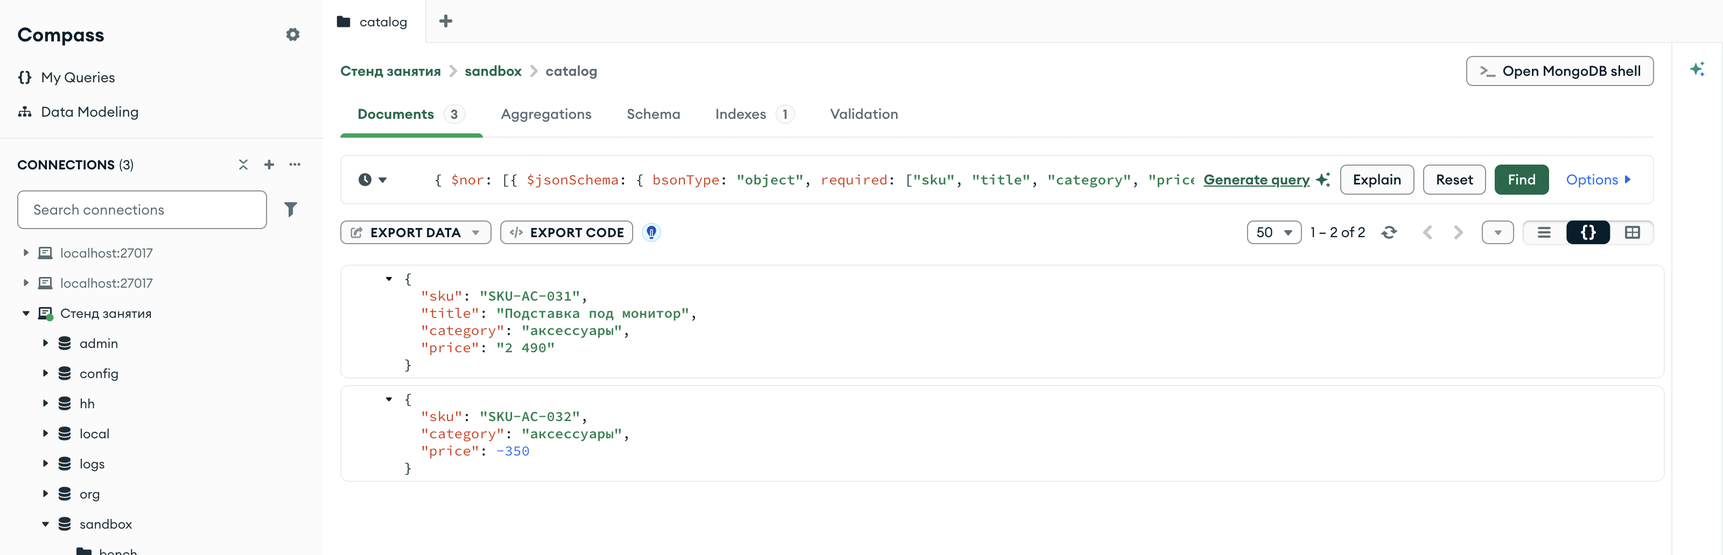
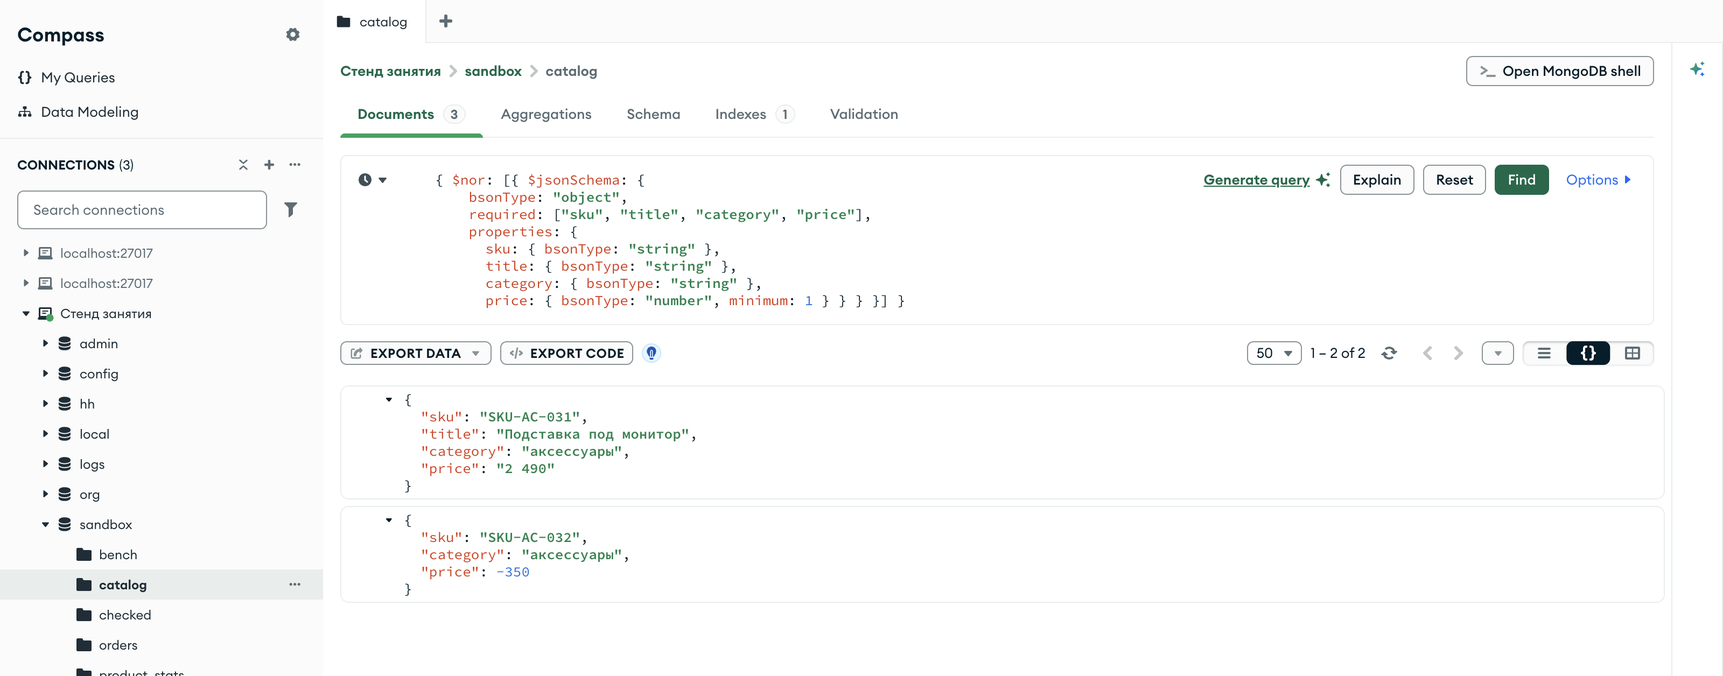
Глава 3.1: порядок ввода правила, схемы правила и пути записи, таблица strict/moderate, разбор errInfo по шагам, запуск mongosh, самостоятельная работа; кадр 109 с правилом целиком

diff --git a/temy/19-jsonschema/index.html b/temy/19-jsonschema/index.html
@@ -23,6 +23,15 @@
       document.documentElement.dataset.os = os;
     })();
   </script>
+  <style>
+    .steps { counter-reset: step; margin: 18px 0; padding: 0; list-style: none; }
+    .steps > li { position: relative; margin: 0 0 12px; padding: 12px 16px 12px 52px; border: 2px solid var(--ink); background: var(--page); }
+    .steps > li::before { counter-increment: step; content: counter(step); position: absolute; left: 12px; top: 11px; width: 26px; height: 26px; display: grid; place-items: center; background: var(--ink); color: var(--leaf-bright); font: 700 13px/1 var(--mono); }
+    .steps > li > b:first-child { display: block; margin-bottom: 3px; }
+    .doc__body .ok { color: var(--leaf); }
+    .doc__body .bad { color: var(--clay); font-weight: 600; }
+    .sieve > span.drop.is-shown { opacity: 1; transform: none; border-color: var(--clay); box-shadow: 4px 4px 0 var(--clay); }
+  </style>
 </head>
 <body>
   <div class="book">
@@ -67,10 +76,12 @@
             <li><a href="#s5">Ключевые слова правила</a></li>
             <li><a href="#s6">Правило для коллекции с данными: <code>collMod</code></a></li>
             <li><a href="#s7"><code>validationAction</code>: предупреждение вместо отказа</a></li>
-            <li><a href="#s8">Правило в Compass</a></li>
-            <li><a href="#s9">Частые ошибки</a></li>
-            <li><a href="#s10">Проверьте себя</a></li>
-            <li><a href="#s11">Шпаргалка</a></li>
+            <li><a href="#s8">Порядок ввода правила на рабочей коллекции</a></li>
+            <li><a href="#s9">Правило в Compass</a></li>
+            <li><a href="#s10">Частые ошибки</a></li>
+            <li><a href="#s11">Проверьте себя</a></li>
+            <li><a href="#s12">Самостоятельная работа</a></li>
+            <li><a href="#s13">Шпаргалка</a></li>
           </ol>
         </nav>
 
@@ -259,6 +270,29 @@ schema = {
           <li><code>required</code> — массив имён обязательных полей. Документ, в котором нет хотя бы одного из них, правилу не соответствует.</li>
           <li><code>properties</code> — правила для отдельных полей. Ключ — имя поля, значение — правило для значения этого поля. <code>{"bsonType": "string"}</code> требует строку. Имена типов те же, что у оператора <code>$type</code> (глава 2.5, §4): для цены указан <code>"number"</code>, он принимает любой числовой тип — <code>int</code>, <code>long</code>, <code>double</code> и <code>decimal</code>. Ключ <code>"minimum": 1</code> требует число не меньше единицы.</li>
         </ul>
+        <p>Как сервер прикладывает правило к документу, видно на товаре без названия из §1. Слева — правило, справа — документ; у каждого поля документа отмечено, какое условие правила к нему относится и выполнено ли оно.</p>
+        <div class="duo">
+          <div class="doc">
+            <div class="doc__bar"><span>Правило</span><span>schema</span></div>
+            <div class="doc__body">
+              <div><span class="fld">required</span>: sku, title, category, price</div>
+              <div><span class="fld">sku</span>: строка</div>
+              <div><span class="fld">title</span>: строка</div>
+              <div><span class="fld">category</span>: строка</div>
+              <div><span class="fld">price</span>: число, не меньше 1</div>
+            </div>
+          </div>
+          <div class="doc">
+            <div class="doc__bar"><span>Документ</span><span>SKU-AC-032</span></div>
+            <div class="doc__body">
+              <div><span class="fld">sku</span>: "SKU-AC-032" <span class="ok">строка — выполнено</span></div>
+              <div><span class="fld">category</span>: "аксессуары" <span class="ok">строка — выполнено</span></div>
+              <div><span class="fld">price</span>: -350 <span class="bad">меньше 1 — minimum</span></div>
+              <div><span class="fld">title</span>: <span class="bad">поля нет — required</span></div>
+            </div>
+          </div>
+        </div>
+        <p>Документ нарушает два условия: цена меньше единицы, и нет обязательного поля <code>title</code>. Достаточно одного нарушения, чтобы документ правилу не соответствовал.</p>
         <p>Правило из <code>properties</code> проверяется, только если поле в документе есть. Документ без цены не нарушает <code>{"bsonType": "number", "minimum": 1}</code>; его отклонит <code>required</code>. Поэтому обязательные поля перечисляют в <code>required</code>, а их типы и границы — в <code>properties</code>.</p>
         <p><code>$jsonSchema</code> — оператор запроса, как <code>$exists</code> и <code>$type</code>. Его ставят в фильтр <code>find</code> или <code>count_documents</code>, и документ попадает в результат, если соответствует правилу. Так проверяют данные, которые уже лежат в коллекции. Пример считает товары, которые соответствуют правилу, в <code>shop.products</code> и в <code>catalog</code> из §1, а затем выводит документы <code>catalog</code>, которые правилу не соответствуют: их отбирает <code>$nor</code> с одним условием (глава 2.4).</p>
         <div class="duo">
@@ -340,10 +374,19 @@ sandbox.catalog, подходят: 1
           <img src="../../shots/109-sandbox-catalog-nor.png" alt="Compass, коллекция sandbox.catalog: фильтр $nor с $jsonSchema, счётчик 1 – 2 of 2, подставка и товар без названия">
           <figcaption>Compass · <code>sandbox.catalog</code>, фильтр <code>{ $nor: [{ $jsonSchema: { … } }] }</code> с правилом товара</figcaption>
         </figure>
-        <p>Правило в поле фильтра записано так же, как в коде, одной строкой; Compass показывает её начало. Счётчик <code>1 – 2 of 2</code>: в выдаче подставка с ценой-строкой и товар без названия, чехол в неё не попал.</p>
+        <p>Правило в поле фильтра записано так же, как в коде, по строкам: Compass растягивает поле по высоте, и правило видно целиком. Счётчик <code>1 – 2 of 2</code>: в выдаче подставка с ценой-строкой и товар без названия, чехол в неё не попал.</p>
 
         <h2 id="s3"><span class="sec">§3</span>Коллекция с правилом: <code>validator</code></h2>
         <p>Правило, которое сервер проверяет при каждой записи в коллекцию, называется <span class="term">валидатором</span> (<code>validator</code>). Оно хранится в настройках коллекции. При вставке и при обновлении сервер проверяет документ в том виде, в каком он будет записан, и отклоняет запись, если документ правилу не соответствует. Это похоже на контроль на проходной: документ, который не прошёл проверку, в коллекцию не попадает.</p>
+        <div class="pipeline">
+          <div class="pipeline__stage"><b>insert_one, update_one</b><span>программа или Compass отправляет запись</span><em>1 · запись</em></div>
+          <div class="pipeline__stage"><b>validator</b><span>сервер сверяет документ с правилом коллекции</span><em>2 · проверка</em></div>
+          <div class="pipeline__stage is-lit"><b>результат</b><span>документ записан или отклонён</span><em>3 · ответ</em></div>
+        </div>
+        <div class="sieve">
+          <span class="pass"><b>соответствует</b>документ записан, программа получает обычный ответ</span>
+          <span class="drop is-shown"><b>не соответствует</b>запись отклонена: ошибка 121, причины в errInfo, коллекция не изменилась</span>
+        </div>
         <p>В модуле 1 коллекции появлялись сами при первой вставке. Коллекцию с валидатором создают явно, передавая правило в параметрах создания:</p>
         <p data-lang="python">Метод базы <code>create_collection(имя, validator=...)</code> создаёт коллекцию и возвращает объект коллекции. Значение <code>validator</code> — документ условия; правило <code>$jsonSchema</code> стоит в нём как оператор запроса, так же как в фильтре §2.</p>
         <p data-lang="ruby">Запись <code>sandbox[:checked, validator: ...]</code> создаёт объект коллекции с параметрами, но на сервер ничего не отправляет; коллекцию создаёт вызов <code>create</code>. Значение <code>validator</code> — документ условия; правило <code>$jsonSchema</code> стоит в нём как оператор запроса, так же как в фильтре §2.</p>
@@ -484,6 +527,52 @@ checked.<span class="f">insert_one</span>({ <span class="s">"sku"</span> =&gt; <
           <li>элемент с <code>"operatorName": "required"</code> перечисляет недостающие поля в массиве <code>missingProperties</code>;</li>
           <li>элемент с <code>"operatorName": "properties"</code> перечисляет поля с ошибками в массиве <code>propertiesNotSatisfied</code>. Для каждого поля указаны имя (<code>propertyName</code>) и список <code>details</code>: какое ключевое слово не выполнено (<code>operatorName</code>) и причина (<code>reason</code>).</li>
         </ul>
+        <p>Так выглядит <code>errInfo</code> для подставки из §1 — документа без названия и с ценой строкой. Ответ получен на стенде и напечатан в mongosh; <code>failingDocumentId</code> у каждого запуска свой.</p>
+        <figure class="code" data-run="no">
+          <figcaption><span>mongosh · ответ сервера</span><span>поле errInfo</span></figcaption>
+<pre>{
+  failingDocumentId: ObjectId('6ac4b24260c9c86df89ab767'),
+  details: {
+    operatorName: '$jsonSchema',
+    schemaRulesNotSatisfied: [
+      {
+        operatorName: 'properties',
+        propertiesNotSatisfied: [
+          {
+            propertyName: 'price',
+            details: [
+              {
+                operatorName: 'bsonType',
+                specifiedAs: {
+                  bsonType: 'number'
+                },
+                reason: 'type did not match',
+                consideredValue: '2 490',
+                consideredType: 'string'
+              }
+            ]
+          }
+        ]
+      },
+      {
+        operatorName: 'required',
+        specifiedAs: {
+          required: [
+            'sku',
+            'title',
+            'category',
+            'price'
+          ]
+        },
+        missingProperties: [
+          'title'
+        ]
+      }
+    ]
+  }
+}</pre>
+        </figure>
+        <p>Два элемента списка <code>schemaRulesNotSatisfied</code> соответствуют двум нарушениям. Элемент <code>properties</code>: поле <code>price</code>, условие <code>bsonType</code>, в документе строка <code>'2 490'</code> (<code>consideredType: 'string'</code>). Элемент <code>required</code>: нет поля <code>title</code>. Пример ниже проходит по этому списку и печатает имена полей и условий; остальные поля ответа ему не нужны.</p>
         <p>Пример пробует записать в коллекцию <code>checked</code> из §3 подставку из §1 — без названия и с ценой строкой — и печатает причины отказа.</p>
         <div class="duo">
           <figure class="code" data-lang="python">
@@ -626,10 +715,35 @@ _, err := checked.<span class="f">InsertOne</span>(ctx, bson.D{
   нет обязательных полей: ["title"]</pre>
         </figure>
         <p>Нарушены два условия. У поля <code>price</code> не выполнено ключевое слово <code>bsonType</code>, причина <code>type did not match</code> — тип значения не совпал с указанным в правиле. И в документе нет обязательного поля <code>title</code>. Сервер сообщил обе причины сразу и не остановился на первом нарушении.</p>
-        <p data-lang="python">В исключении <code>WriteError</code> поле <code>details</code> хранит описание ошибки записи целиком; <code>errInfo</code> — один из его ключей.</p>
-        <p data-lang="ruby">Метод <code>details</code> исключения возвращает содержимое <code>errInfo</code>, поэтому разбор начинается сразу с ключа <code>"details"</code>.</p>
-        <p data-lang="go">Поле <code>Details</code> ошибки записи хранит <code>errInfo</code> в виде <code>bson.Raw</code> — документа BSON без разбора. <code>bson.Unmarshal</code> раскладывает его в структуру: поля структуры связаны с именами в документе тегами <code>bson:"…"</code>, а поля, которых в структуре нет, пропускаются. Тип <code>schemaRule</code> объявлен над <code>main</code>.</p>
-        <p data-lang="cpp">Метод <code>raw_server_error()</code> исключения возвращает весь ответ сервера. Ошибки записи лежат в нём массивом <code>writeErrors</code>, и <code>errInfo</code> берётся из его первого элемента. Значения достаются по цепочке <code>[]</code>, массивы — через <code>get_array().value</code>, строки — через <code>get_string().value</code>.</p>
+        <p>Код примера проходит по <code>errInfo</code> в одном и том же порядке на всех языках.</p>
+        <ol class="steps" data-lang="python">
+          <li><b>Поймать отказ</b><code>except WriteError as e</code> перехватывает исключение, которое выбросил <code>insert_one</code>. Класс <code>WriteError</code> импортирован в начале примера из модуля <code>pymongo.errors</code>.</li>
+          <li><b>Дойти до списка нарушений</b><code>e.details</code> — словарь с описанием ошибки записи: <code>code</code>, <code>errmsg</code>, <code>errInfo</code>. Цепочка <code>e.details["errInfo"]["details"]["schemaRulesNotSatisfied"]</code> спускается по вложенным словарям и даёт список из двух элементов, как в ответе выше.</li>
+          <li><b>Узнать, какое условие не выполнено</b>Цикл <code>for rule in …</code> перебирает элементы списка; каждый элемент — словарь, и <code>rule["operatorName"]</code> — имя ключевого слова: <code>"properties"</code> или <code>"required"</code>.</li>
+          <li><b>Напечатать недостающие поля</b>Для <code>required</code> имена лежат в списке <code>rule["missingProperties"]</code>; <code>print</code> выводит его как список Python: <code>['title']</code>.</li>
+          <li><b>Напечатать поля с ошибками</b>Для <code>properties</code> работают два вложенных цикла: внешний — по полям из <code>rule["propertiesNotSatisfied"]</code>, внутренний — по нарушенным условиям поля из <code>prop["details"]</code>. Печатаются имя поля, имя условия и причина.</li>
+        </ol>
+        <ol class="steps" data-lang="ruby">
+          <li><b>Поймать отказ</b><code>rescue Mongo::Error::OperationFailure =&gt; e</code> перехватывает исключение, которое выбросил <code>insert_one</code>.</li>
+          <li><b>Дойти до списка нарушений</b>Метод <code>e.details</code> возвращает содержимое <code>errInfo</code>, поэтому цепочка начинается на уровень ниже, чем в ответе выше: <code>e.details["details"]["schemaRulesNotSatisfied"]</code>.</li>
+          <li><b>Узнать, какое условие не выполнено</b><code>.each do |rule|</code> перебирает элементы списка; <code>rule["operatorName"]</code> — имя ключевого слова: <code>"properties"</code> или <code>"required"</code>.</li>
+          <li><b>Напечатать недостающие поля</b>Для <code>required</code> имена лежат в массиве <code>rule["missingProperties"]</code>; подстановка <code>#{…}</code> выводит его как массив Ruby: <code>["title"]</code>.</li>
+          <li><b>Напечатать поля с ошибками</b>Для <code>properties</code> работают два вложенных <code>each</code>: по полям из <code>rule["propertiesNotSatisfied"]</code> и по нарушенным условиям поля из <code>prop["details"]</code>.</li>
+        </ol>
+        <ol class="steps" data-lang="go">
+          <li><b>Описать нужную часть ответа</b>Тип <code>schemaRule</code> над <code>main</code> повторяет форму элемента списка. Поля структуры связаны с именами в документе тегами <code>bson:"…"</code>; поля ответа, которых в структуре нет (<code>specifiedAs</code>, <code>consideredValue</code>), при разборе пропускаются.</li>
+          <li><b>Поймать отказ</b><code>errors.As(err, &amp;we)</code> проверяет, что <code>InsertOne</code> вернул ошибку типа <code>mongo.WriteException</code>, и записывает её в переменную <code>we</code>.</li>
+          <li><b>Разобрать errInfo</b><code>we.WriteErrors[0].Details</code> — <code>errInfo</code> первой ошибки записи в виде <code>bson.Raw</code>. <code>bson.Unmarshal</code> раскладывает его в переменную <code>info</code>: её анонимная структура повторяет путь <code>details → schemaRulesNotSatisfied</code>, и после разбора список лежит в <code>info.Details.Rules</code>.</li>
+          <li><b>Напечатать недостающие поля</b>Для <code>rule.OperatorName == "required"</code> имена лежат в срезе <code>rule.MissingProperties</code>; <code>fmt.Println</code> выводит его как <code>[title]</code>.</li>
+          <li><b>Напечатать поля с ошибками</b>Для <code>"properties"</code> работают два вложенных цикла <code>for … range</code>: по полям и по нарушенным условиям каждого поля.</li>
+        </ol>
+        <ol class="steps" data-lang="cpp">
+          <li><b>Поймать отказ</b><code>catch (const mongocxx::operation_exception&amp; e)</code> перехватывает исключение, которое выбросил <code>insert_one</code>.</li>
+          <li><b>Дойти до errInfo</b><code>e.raw_server_error()</code> возвращает весь ответ сервера. Ошибки записи лежат в нём массивом <code>writeErrors</code>, и цепочка <code>view()["writeErrors"][0]["errInfo"]</code> берёт <code>errInfo</code> первой ошибки.</li>
+          <li><b>Перебрать нарушения</b><code>info["details"]["schemaRulesNotSatisfied"].get_array().value</code> — массив, по которому идёт цикл. Элемент превращается в документ через <code>get_document().value</code>, а имя условия — в строку <code>std::string name{…}</code>, чтобы сравнить его с <code>"required"</code> и <code>"properties"</code>.</li>
+          <li><b>Напечатать недостающие поля</b>Для <code>required</code> цикл по <code>rule["missingProperties"]</code> печатает имена через пробел.</li>
+          <li><b>Напечатать поля с ошибками</b>Для <code>properties</code> работают два вложенных цикла: по полям и по нарушенным условиям каждого поля.</li>
+        </ol>
         <p>Строка «нет обязательных полей: title» называет поле, которое нужно добавить в документ. Такой разбор пишут в журнал приложения или возвращают пользователю, который заполнял форму.</p>
         <figure class="shot">
           <img src="../../shots/111-sandbox-checked-insert.png" alt="Compass, окно Insert Document для sandbox.checked: документ без title с ценой строкой, сообщение Document failed validation и кнопка View error details">
@@ -1103,6 +1217,20 @@ moderate: цена ноутбука 0 не записана, код ошибки
         </figure>
         <p>В коллекции 22 товара, и один из них правилу не соответствует: включение правила не удалило и не изменило сумку. При <code>strict</code> обновление сумки отклонено, хотя меняется поле <code>brand</code>, которого в правиле нет. Сервер проверяет документ целиком в том виде, каким он станет после обновления, а цена в нём по-прежнему строка.</p>
         <p>При <code>moderate</code> то же обновление прошло: сумка не соответствовала правилу и до него. Обновление ноутбука проверено и отклонено: ноутбук соответствовал правилу, а с ценой 0 перестал бы. Уровень <code>moderate</code> выбирают, когда правило вводят для коллекции со старыми данными: старые документы можно исправлять постепенно, а новые ошибки в коллекцию не попадают.</p>
+        <p>Что делает сервер при каждом уровне, сведено в таблицу. Строки с ноутбуком и сумкой — из примера, остальные проверены на стенде тем же способом.</p>
+        <div class="table-scroll">
+          <table>
+            <thead><tr><th>Запись</th><th>Документ до записи</th><th>Документ после записи</th><th><code>strict</code></th><th><code>moderate</code></th></tr></thead>
+            <tbody>
+              <tr><td>вставка</td><td>—</td><td>соответствует</td><td>записать</td><td>записать</td></tr>
+              <tr><td>вставка</td><td>—</td><td>не соответствует</td><td>отклонить</td><td>отклонить</td></tr>
+              <tr><td>обновление</td><td>соответствует</td><td>не соответствует (ноутбук с ценой 0)</td><td>отклонить</td><td>отклонить</td></tr>
+              <tr><td>обновление</td><td>не соответствует</td><td>не соответствует (сумка с новым <code>brand</code>)</td><td>отклонить</td><td>записать</td></tr>
+              <tr><td>обновление</td><td>не соответствует</td><td>соответствует (цена исправлена на число)</td><td>записать</td><td>записать</td></tr>
+            </tbody>
+          </table>
+        </div>
+        <p>Уровни различаются в одной строке — при обновлении документа, который не соответствовал правилу и не стал соответствовать после записи.</p>
         <figure class="shot">
           <img src="../../shots/114-sandbox-products-moderate.png" alt="Compass, вкладка Validation коллекции sandbox.products: Action Error, Level Moderate, правило $jsonSchema">
           <figcaption>Compass · <code>sandbox.products</code>, вкладка <b>Validation</b> после <code>collMod</code></figcaption>
@@ -1218,7 +1346,13 @@ validationAction: warn</pre>
         <p data-lang="ruby">Настройки коллекции возвращает <code>list_collections</code> с фильтром по имени. Метод возвращает массив описаний коллекций, <code>first</code> берёт первое; правило и оба параметра лежат в поле <code>"options"</code>.</p>
         <p data-lang="go">Настройки коллекции возвращает <code>ListCollectionSpecifications</code> с фильтром по имени. Метод возвращает срез описаний; поле <code>Options</code> хранит настройки в виде <code>bson.Raw</code>, и значение по имени достаёт <code>Lookup</code>.</p>
         <p data-lang="cpp">Настройки коллекции возвращает <code>list_collections</code> с фильтром по имени. Метод возвращает курсор по описаниям коллекций; правило и оба параметра лежат во вложенном документе <code>options</code>.</p>
-        <p>Предупреждение сервер пишет в свой журнал. Последние строки журнала возвращает команда <code>getLog</code>; в mongosh их можно отфильтровать по тексту предупреждения:</p>
+        <p>Предупреждение сервер пишет в свой журнал. Последние строки журнала возвращает команда <code>getLog</code>; её вызывают из mongosh — оболочки MongoDB (глава 1.1). Оболочка открывается тремя способами:</p>
+        <ul>
+          <li>стенд в Docker: из папки <code>mongodb-practice</code> команда <code>docker compose exec mongo mongosh</code>;</li>
+          <li>установленный сервер: команда <code>mongosh</code> в терминале, она подключается к <code>localhost:27017</code>;</li>
+          <li>Compass: кнопка <b>Open MongoDB shell</b> справа вверху над коллекцией, её видно на кадрах этой главы.</li>
+        </ul>
+        <p>В оболочке строки журнала фильтруются по тексту предупреждения:</p>
         <figure class="code">
           <figcaption><span>mongosh · оболочка</span><span>последнее предупреждение валидатора</span></figcaption>
 <pre>db.<span class="f">adminCommand</span>({ getLog: <span class="s">"global"</span> }).log
@@ -1284,12 +1418,23 @@ validationAction: warn</pre>
         </figure>
         <p>Под правилом Compass показывает по одному документу из коллекции: слева <b>Passed validation</b> — документ, который правилу соответствует, справа <b>Failed validation</b> — который не соответствует. Compass выбирает их сам из части коллекции, поэтому слева может оказаться другой товар. Справа здесь товар <code>p-902</code> с ценой <code>-1</code>.</p>
 
-        <h2 id="s8"><span class="sec">§8</span>Правило в Compass</h2>
+        <h2 id="s8"><span class="sec">§8</span>Порядок ввода правила на рабочей коллекции</h2>
+        <p>В §6 и §7 настройки валидатора разобраны по отдельности. На коллекции, в которую уже пишет приложение, их включают по шагам: так правило не начнёт отклонять записи приложения без предупреждения, а старые ошибки в данных будут найдены и исправлены.</p>
+        <ol class="steps">
+          <li><b>Проверить данные правилом</b>Фильтр <code>{"$nor": [{"$jsonSchema": правило}]}</code> (§2) показывает документы, которые правилу не соответствуют. Если таких документов много, сначала проверяют само правило: возможно, ошибка в нём.</li>
+          <li><b>Включить правило в режиме предупреждения</b>Команда <code>collMod</code> с правилом, <code>validationLevel: "moderate"</code> и <code>validationAction: "warn"</code> (§6, §7). Записи не отклоняются, старые документы можно обновлять.</li>
+          <li><b>Посмотреть журнал</b>Предупреждения <code>Document would fail validation</code> показывают, какие записи приложения правило отклонило бы. Ошибку исправляют в приложении или в правиле.</li>
+          <li><b>Исправить старые документы</b>Документы из шага 1 исправляют обновлением, пока фильтр из шага 1 не вернёт ноль.</li>
+          <li><b>Включить проверку полностью</b>Команда <code>collMod</code> с <code>validationLevel: "strict"</code> и <code>validationAction: "error"</code>. С этого момента документ, который правилу не соответствует, в коллекцию не попадёт.</li>
+        </ol>
+        <p>Шаги 1 и 4 выполняются запросами из этой главы и модуля 1, шаги 2 и 5 — одной командой <code>collMod</code> каждый.</p>
+
+        <h2 id="s9"><span class="sec">§9</span>Правило в Compass</h2>
         <p>Кадры в разделах выше сняты на тех же коллекциях, что и примеры. Правило коллекции в Compass находится на вкладке <b>Validation</b>. Если правила нет, на вкладке кнопка <b>Add rule</b>; если есть — редактор с документом валидатора, списки <b>Action</b> и <b>Level</b> и кнопка <b>Edit rules</b>. После <b>Edit rules</b> правило можно изменить и сохранить: Compass отправит серверу ту же команду <code>collMod</code>, что и пример §6.</p>
         <p>Пока правила нет, рядом с <b>Add rule</b> доступна кнопка <b>Generate rules</b>: Compass анализирует часть документов коллекции, как на вкладке <b>Schema</b> (глава 2.5), и составляет правило из полей, которые встречаются, и их типов. У коллекции с правилом эта кнопка неактивна — она серая на кадрах выше. Такое правило повторяет данные коллекции: если в ней уже лежит цена строкой, правило разрешит строку. Поэтому сгенерированное правило читают и исправляют до сохранения.</p>
-        <p>В поле фильтра на вкладке <b>Documents</b> оператор <code>$jsonSchema</code> пишется так же, как в коде, только одной строкой (кадр в §2). Документ, отклонённый правилом при вставке через Compass, остаётся в окне вставки вместе с сообщением сервера, и причины отказа открывает кнопка <b>View error details</b> (кадры в §4).</p>
+        <p>В поле фильтра на вкладке <b>Documents</b> оператор <code>$jsonSchema</code> пишется так же, как в коде; длинное правило удобнее вводить по строкам (кадр в §2). Документ, отклонённый правилом при вставке через Compass, остаётся в окне вставки вместе с сообщением сервера, и причины отказа открывает кнопка <b>View error details</b> (кадры в §4).</p>
 
-        <h2 id="s9"><span class="sec">§9</span>Частые ошибки</h2>
+        <h2 id="s10"><span class="sec">§10</span>Частые ошибки</h2>
         <div class="table-scroll errors-table" data-lang="python">
           <table>
             <thead><tr><th>Что написано</th><th>Что происходит</th><th>Как правильно</th></tr></thead>
@@ -1347,7 +1492,7 @@ validationAction: warn</pre>
           </table>
         </div>
 
-        <h2 id="s10"><span class="sec">§10</span>Проверьте себя</h2>
+        <h2 id="s11"><span class="sec">§11</span>Проверьте себя</h2>
         <details>
           <summary>Чем <code>$jsonSchema</code> в фильтре отличается от <code>$jsonSchema</code> в валидаторе?</summary>
           <p>Правило одно и то же. В фильтре оно отбирает документы, которые уже лежат в коллекции, и ничего не меняет. В валидаторе сервер проверяет по нему каждую вставку и каждое обновление и отклоняет запись, если документ правилу не соответствует.</p>
@@ -1369,7 +1514,20 @@ validationAction: warn</pre>
           <p>При <code>warn</code> сервер проверяет каждую запись, записывает документ и оставляет в журнале предупреждение, если документ правилу не соответствует. При <code>off</code> проверки нет совсем, и в журнал ничего не пишется.</p>
         </details>
 
-        <h2 id="s11"><span class="sec">§11</span>Шпаргалка</h2>
+        <h2 id="s12"><span class="sec">§12</span>Самостоятельная работа</h2>
+        <p>Работа выполняется на языке, выбранном в шапке главы, в той же заготовке <code>lessons/ch3_1</code>. Заказы магазина лежат в коллекции <code>shop.orders</code>, она открыта в заготовке как <code>orders</code>. Поля заказа: <code>number</code> — номер вида <code>2026-0001</code>, <code>customer_id</code>, <code>created</code> — дата, <code>status</code>, <code>items</code> — массив позиций с полями <code>sku</code>, <code>qty</code>, <code>price</code>, и <code>total</code>.</p>
+        <ol class="steps">
+          <li><b>Записать правило заказа</b>Обязательны <code>number</code>, <code>customer_id</code>, <code>created</code>, <code>status</code>, <code>items</code>, <code>total</code>. <code>number</code> — строка по шаблону: <code>2026-</code> и четыре цифры; <code>customer_id</code> — строка; <code>created</code> — дата; <code>status</code> — одно из значений <code>"собирается"</code>, <code>"в пути"</code>, <code>"доставлен"</code>, <code>"отменён"</code>; <code>total</code> — число не меньше 1; <code>items</code> — массив хотя бы из одной позиции, у каждой обязательны <code>sku</code>, <code>qty</code>, <code>price</code>, а <code>qty</code> и <code>price</code> — числа не меньше 1.</li>
+          <li><b>Проверить заказы магазина</b>Посчитать, сколько документов <code>shop.orders</code> соответствуют правилу и сколько не соответствуют.</li>
+          <li><b>Создать коллекцию с правилом</b>В песочнице — коллекция <code>orders_checked</code> с этим правилом. Если она осталась от прошлого запуска, её сначала удаляют.</li>
+          <li><b>Записать пять заказов</b>Заказ А: <code>number</code> — <code>"2026-0901"</code>, <code>customer_id</code> — <code>"c-001"</code>, <code>created</code> — 06.10.2026 10:00 UTC, <code>status</code> — <code>"собирается"</code>, одна позиция <code>{"sku": "SKU-AC-019", "qty": 1, "price": 2990}</code>, <code>total</code> — 2990. Заказы Б–Д получают номера от <code>2026-0902</code> до <code>2026-0905</code> и отличаются от А одним полем: у Б <code>status</code> — <code>"оплачен"</code>; у В пустой массив <code>items</code>; у Г <code>created</code> записан строкой <code>"2026-10-06"</code>; у Д есть поле <code>comment</code> со строкой. Для каждого заказа напечатать, принят он или отклонён, а для отклонённых — причины из <code>errInfo</code>, как в §4.</li>
+        </ol>
+        <details>
+          <summary>Ответ для самопроверки</summary>
+          <p>Все 120 заказов магазина соответствуют правилу, не соответствуют — ноль. Приняты заказы А и Д, в коллекции <code>orders_checked</code> два документа. Отклонены с кодом 121: Б — поле <code>status</code>, условие <code>enum</code>; В — поле <code>items</code>, условие <code>minItems</code>; Г — поле <code>created</code>, условие <code>bsonType</code>. Заказ Д принят, потому что правило не запрещает поля, которых в нём нет (§5). Если результат другой, правило сверяют с описанием из шага 1 поле за полем.</p>
+        </details>
+
+        <h2 id="s13"><span class="sec">§13</span>Шпаргалка</h2>
         <div class="cheat" data-lang="python">
           <div>
             <b>Правило: обязательные поля и типы</b>
